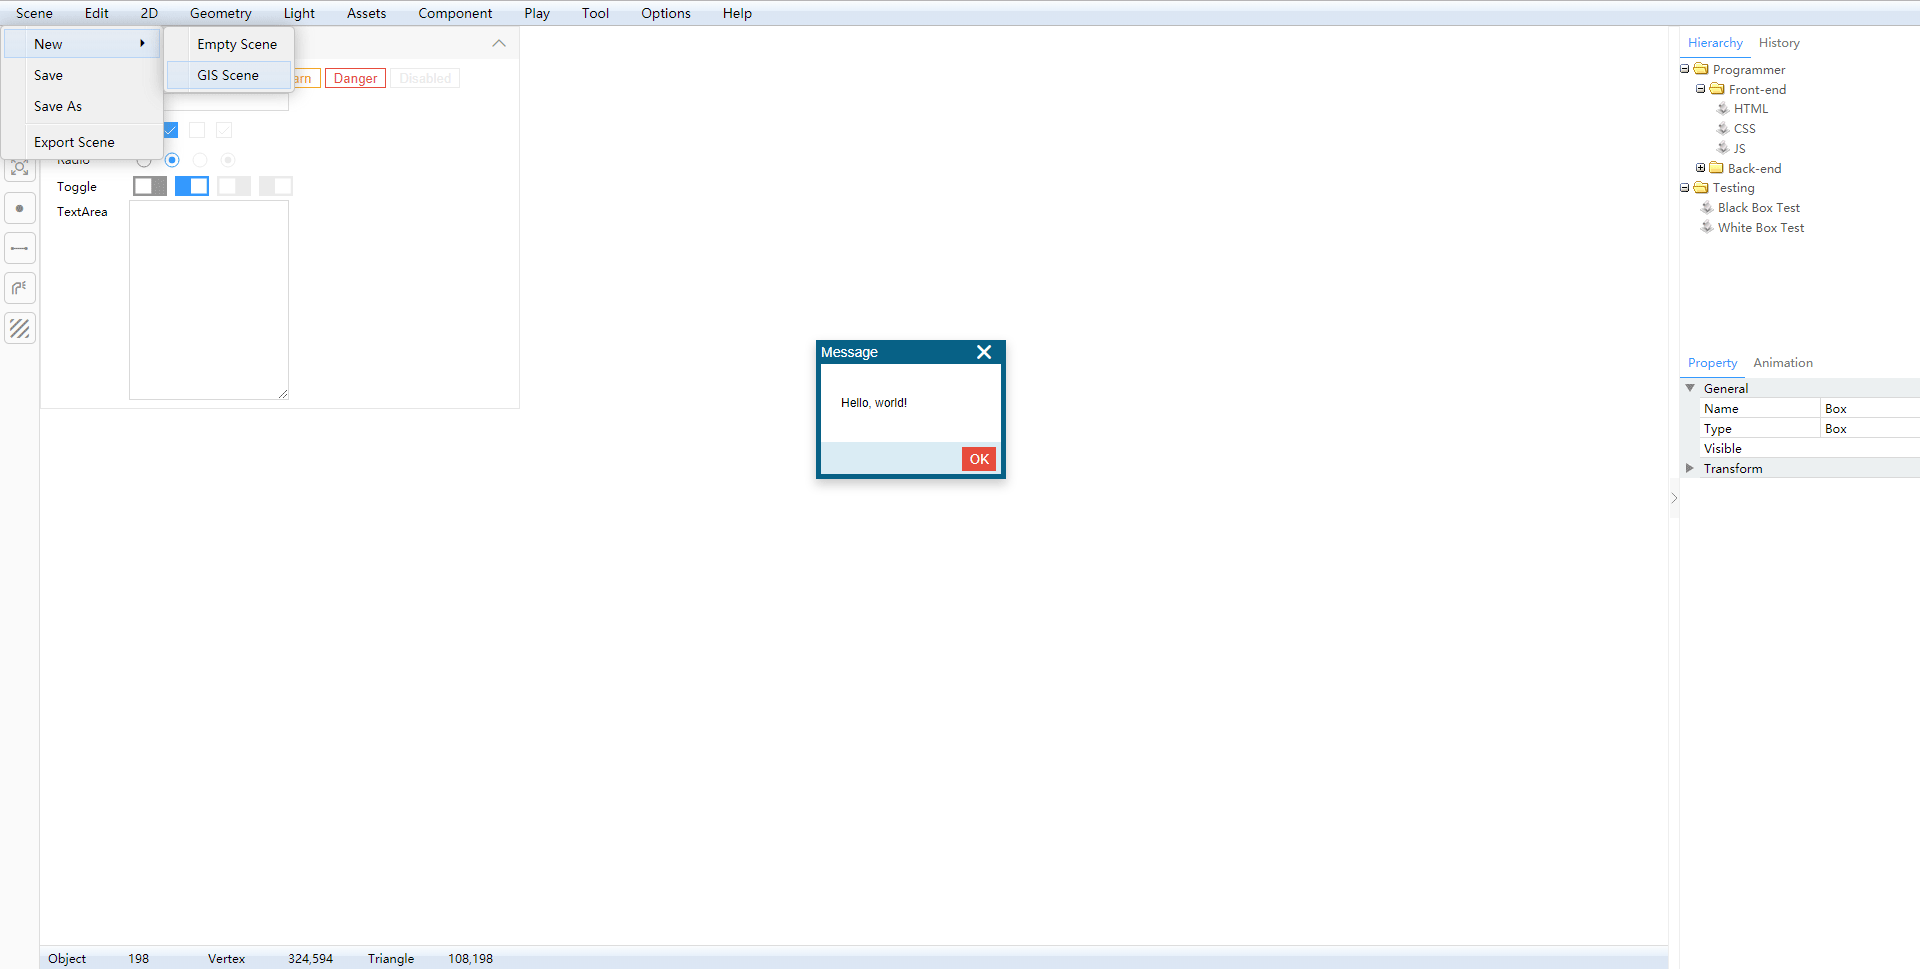
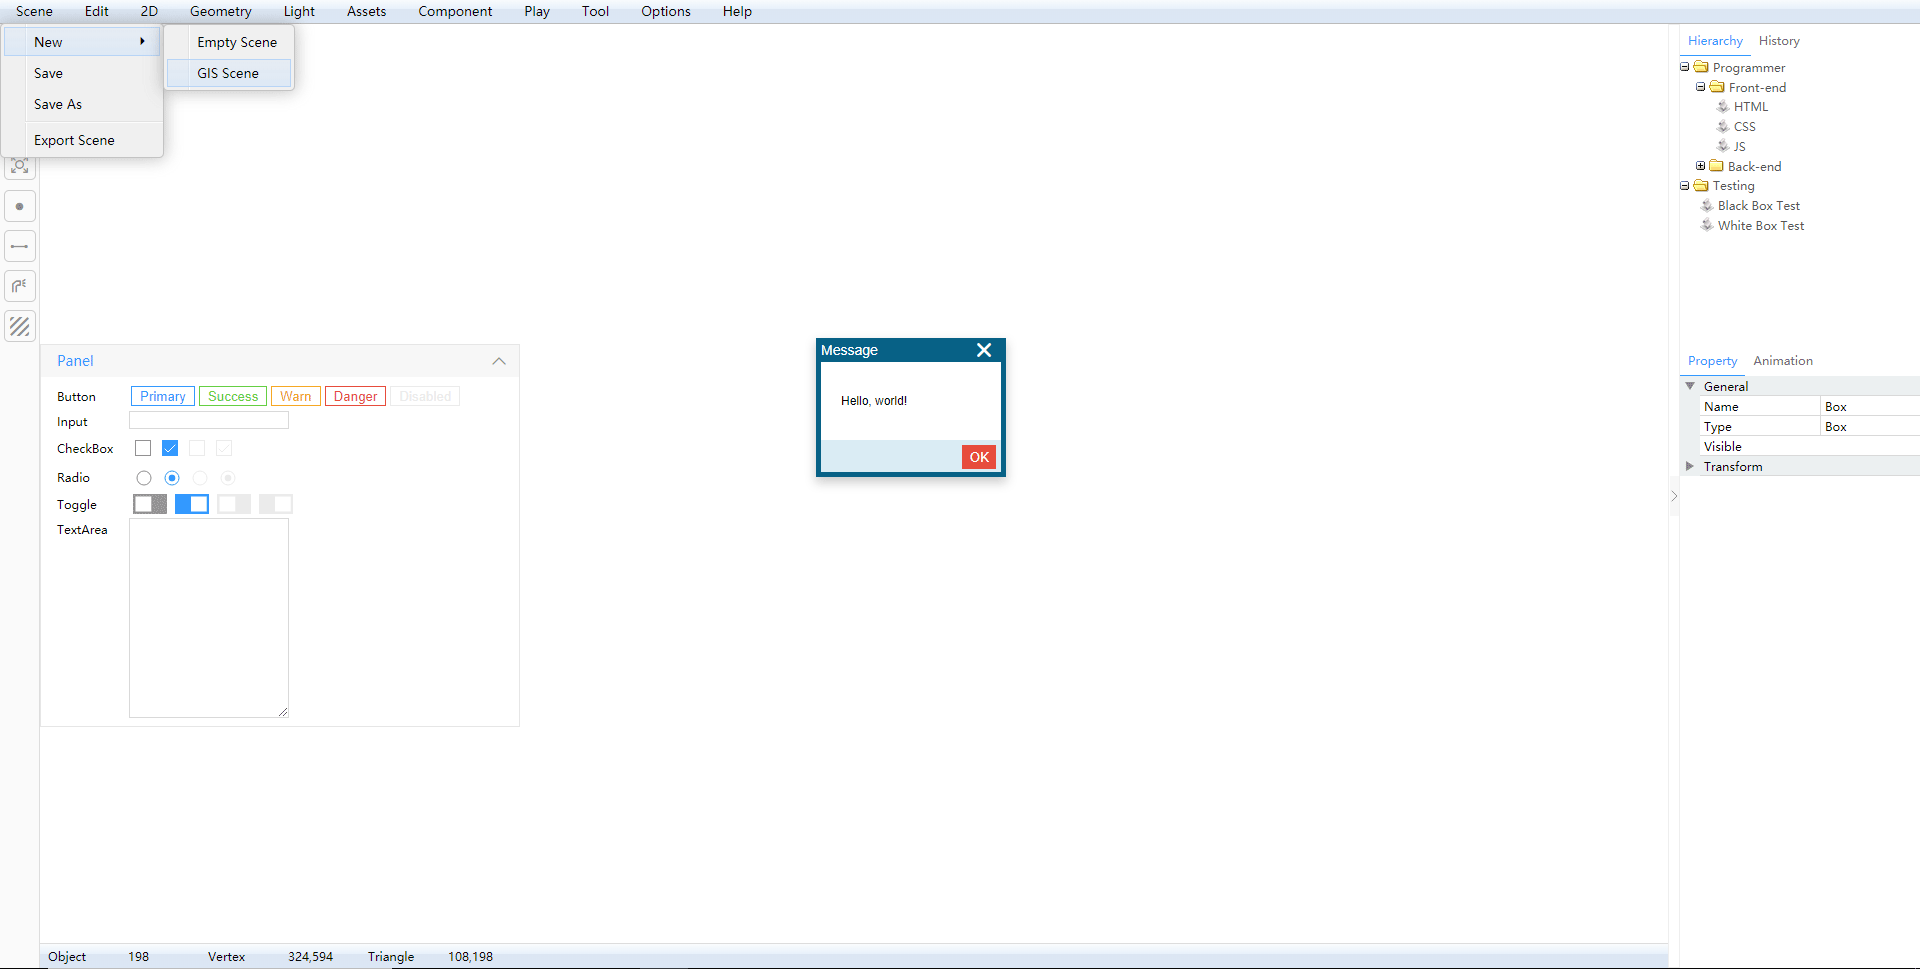
发布v0.2.1。

diff --git a/ShadowEditor.UI/src/editor/EWorkspace.jsx b/ShadowEditor.UI/src/editor/EWorkspace.jsx
@@ -26,7 +26,7 @@ class EWorkspace extends React.Component {
         const { className, ...others } = this.props;
 
         return <VBoxLayout className={classNames('EWorkspace', className)} {...others}>
-            <Panel title={'Panel'} style={{ width: '480px' }}>
+            <Panel title={'Panel'} style={{ width: '480px', marginTop: '320px' }}>
                 <Form>
                     <FormControl>
                         <Label>Button</Label>

diff --git a/README.md b/README.md
@@ -3,28 +3,28 @@
 Language: 中文 / [繁體中文](README-tw.md) / [English](README-en.md) / [日本語](README-jp.md) / [Le français](README-fr.md) / [русский](README-ru.md)
 
 * 名称：Shadow Editor
-* 版本：v0.2.1(开发中)
+* 版本：v0.2.1
 * 简介：基于`three.js`的场景编辑器。
 
-## v0.2.1即将更新
+## v0.2.1发布
 
-1. 更新示例程序，主要是编辑器二维菜单演示。[码云](http://tengge1.gitee.io/shadoweditor-examples/) [GitHub](https://tengge1.github.io/ShadowEditor-examples/)
-
-## v0.2.0更新
-
-* 发布日期：2019年5月3日
+* 发布日期：2019年5月19日
 * 更新日志：
 
-1. 默认不再加载`ammo.js`。只有场景中存在刚体或柔软体时，才在播放时自动加载`ammo.js`，提升编辑器启动速度和非物理场景运行速度。
-2. 新增二维菜单：按钮、标签、面板、水平线、条形图、时间、竖直线、日期、时间圆盘、键值标签、表单、仪表、柱状图、折线图、侧边栏、柱状图2、散点图、饼状图、弦图、力导向图、树状图、集群图、包图、分区图。可拖动、保存、载入，可在播放器中查看。（开发中，仅供测试）
+1. 更新示例程序，主要是编辑器二维菜单演示。[码云](http://tengge1.gitee.io/shadoweditor-examples/) [GitHub](https://tengge1.github.io/ShadowEditor-examples/)
+2. 基于react.js的UI。（开发中）
 
 ## 项目截图
 
-1. 温馨小窝。(仅供参考)
+1. 基于react.js的UI。(开发中)
+
+![image](images/scene20190519.png)
+
+2. 室内场景编辑。(仅供参考)
 
 ![image](images/scene20190427.png)
 
-2. 三维地球。[Gitee](http://tengge1.gitee.io/shadoweditor-examples/index.html?sceneID=5cb46fa6c8b49a1fdc1ea381) [GitHub](https://tengge1.github.io/ShadowEditor-examples/index.html?sceneID=5cb46fa6c8b49a1fdc1ea381)
+3. 三维地球。(开发中) [Gitee](http://tengge1.gitee.io/shadoweditor-examples/index.html?sceneID=5cb46fa6c8b49a1fdc1ea381) [GitHub](https://tengge1.github.io/ShadowEditor-examples/index.html?sceneID=5cb46fa6c8b49a1fdc1ea381)
 
 ![image](images/scene20190414.png)
 
@@ -141,6 +141,14 @@ npm run build-docs
 基本几何体都支持多层嵌套。可以添加一个`组`（在几何体菜单中），然后在场景树状图上，将多个模型拖动到`组`上。
 
 ## 更新日志
+
+**v0.2.1**
+
+* 发布日期：2019年5月19日
+* 更新日志：
+
+1. 更新示例程序，主要是编辑器二维菜单演示。[码云](http://tengge1.gitee.io/shadoweditor-examples/) [GitHub](https://tengge1.github.io/ShadowEditor-examples/)
+2. 基于react.js的UI。（开发中）
 
 **v0.2.0**
 
